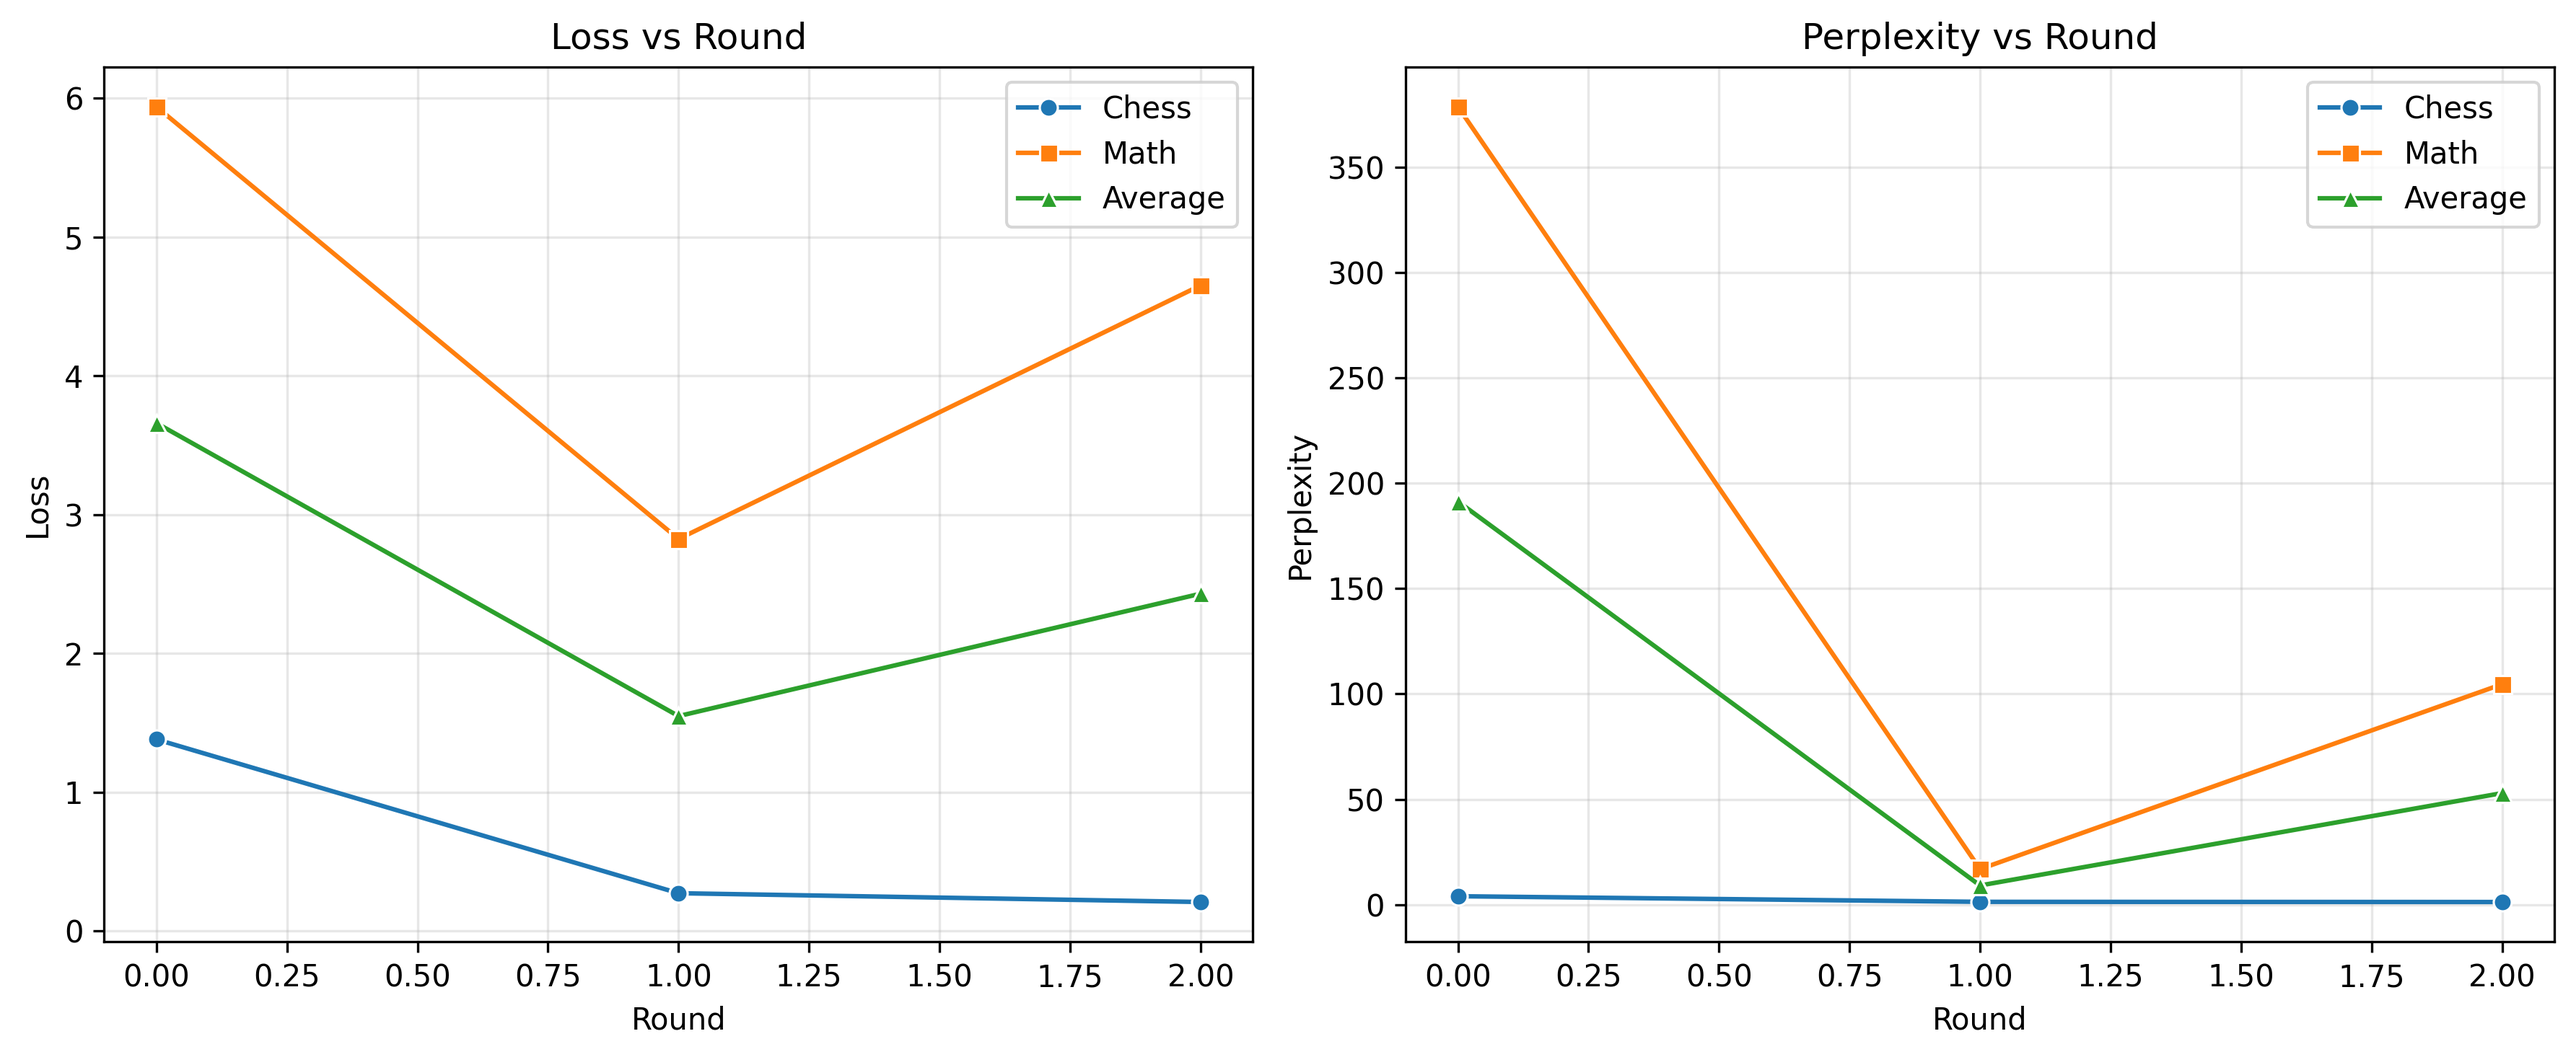
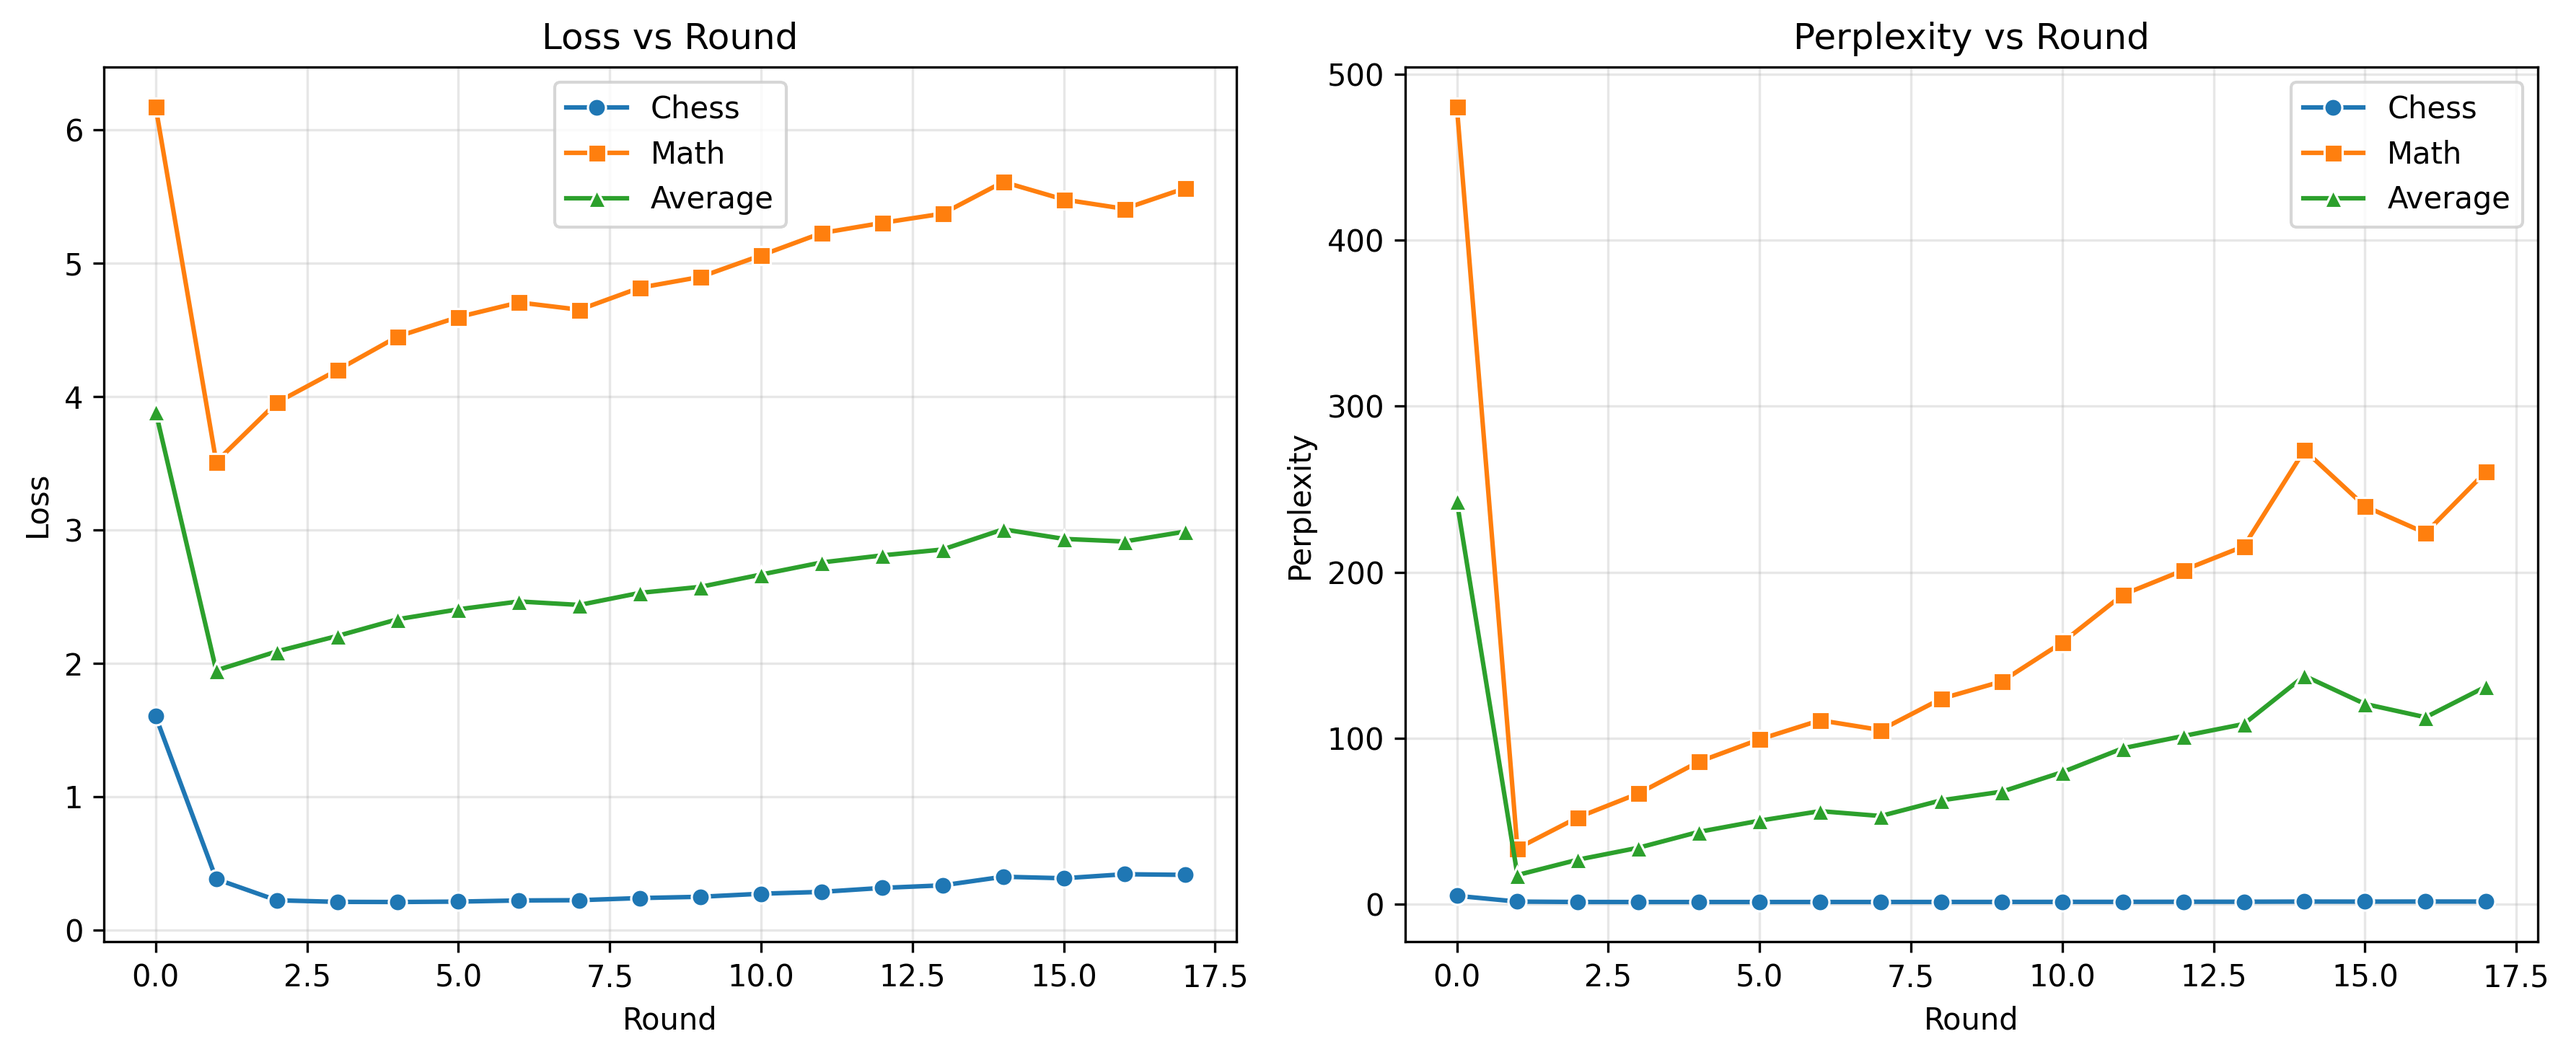
training is complete upto 17 rounds

diff --git a/src/utils/datasets.py b/src/utils/datasets.py
@@ -8,10 +8,10 @@ if hasattr(os, 'cpu_count'):
     os.cpu_count = lambda: 4
 
 
-SAMPLES_PER_CLIENT = 100
+SAMPLES_PER_CLIENT = 2048
 TRAIN_TEST_SPLIT = 0.8
 RANDOM_SEED = 42
-TEST_DATASET_SIZE = 100
+TEST_DATASET_SIZE = 256
 FLAG_INITIALIZED = False
 
 _dataset_cache = None
@@ -66,7 +66,7 @@ def initialize_dataset_chunks(tokenizer):
         start_idx = i * SAMPLES_PER_CLIENT
         end_idx = min(start_idx + SAMPLES_PER_CLIENT, len(chess_train))
         if start_idx < len(chess_train):
-            ds = chess_train.select(range(start_idx, end_idx))
+            ds = chess_train.select(range(start_idx, end_idx), keep_in_memory=True)
             ds = format_with_template(tokenizer, ds)
             chess_chunks.append(ds)
         
@@ -76,7 +76,7 @@ def initialize_dataset_chunks(tokenizer):
         start_idx = i * SAMPLES_PER_CLIENT
         end_idx = min(start_idx + SAMPLES_PER_CLIENT, len(math_train))
         if start_idx < len(math_train):
-            ds =  math_train.select(range(start_idx, end_idx))
+            ds =  math_train.select(range(start_idx, end_idx), keep_in_memory=True)
             ds = format_with_template(tokenizer, ds)
             math_chunks.append(ds)
         
@@ -84,8 +84,8 @@ def initialize_dataset_chunks(tokenizer):
     _dataset_cache = {
         'chess_chunks': chess_chunks,
         'math_chunks': math_chunks,
-        'chess_test': format_with_template(tokenizer, chess_test.select(range(min(TEST_DATASET_SIZE, len(chess_test))))),
-        'math_test': format_with_template(tokenizer, math_test.select(range(min(TEST_DATASET_SIZE, len(math_test)))))
+        'chess_test': format_with_template(tokenizer, chess_test.select(range(min(TEST_DATASET_SIZE, len(chess_test))), keep_in_memory=True)),
+        'math_test': format_with_template(tokenizer, math_test.select(range(min(TEST_DATASET_SIZE, len(math_test))), keep_in_memory=True))
     }
 
 def get_client_dataset(cid, tokenizer, num_samples=SAMPLES_PER_CLIENT):

diff --git a/src/config/default.py b/src/config/default.py
@@ -1,7 +1,7 @@
 def get_default_config():
     return {
         "fl": {
-            "num_rounds": 10,
+            "num_rounds": 17,
             "num_clients": 2,
             "clients_per_round": 2
         },
@@ -10,8 +10,8 @@ def get_default_config():
             "per_device_train_batch_size": 32,
             "gradient_accumulation_steps": 1,
             "warmup_steps": 15,
-            "num_train_epochs": 1,
-            "learning_rate": 5e-5,
+            "num_train_epochs": 2,
+            "learning_rate": 1e-5,
             "logging_steps": 20,
             "optim": "adamw_torch",
             "weight_decay": 0.01,
@@ -33,9 +33,9 @@ def get_default_config():
 
         "device": "cuda",
         "total_gpus": 1,
-        "total_cpus": 8,
+        "total_cpus": 10,
         "client_resources": {
-            "num_cpus": 6,
+            "num_cpus": 4,
             "num_gpus": 0.5
         }
     }

diff --git a/src/main.py b/src/main.py
@@ -28,7 +28,6 @@ def main():
     cfg = ConfigManager.load_config()
     print(f"Configuration Loaded: {cfg}")
     initialize_dataset_chunks(get_model_and_tokenizer(cfg)[1])
-    _ = input("Press Enter to continue...")
     from src.fl.simulation import run_fl_experiment
     global_metrics_history = run_fl_experiment(cfg)
     print(f"Total Time Taken: {time.time() - start_time} seconds")
